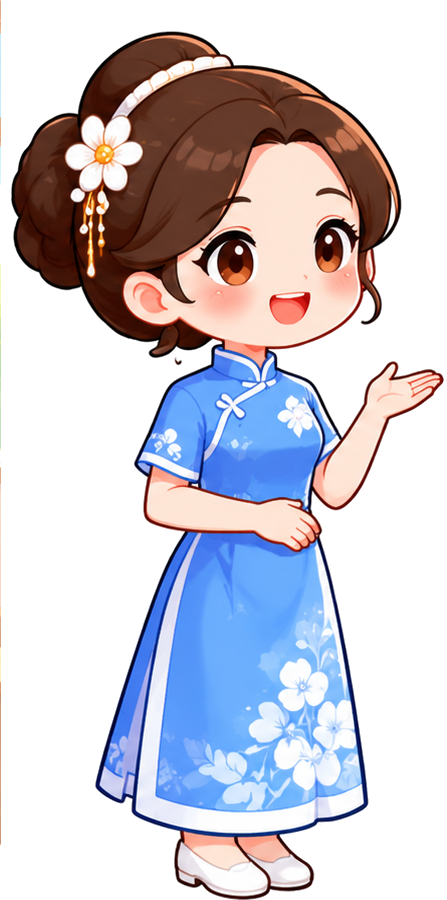
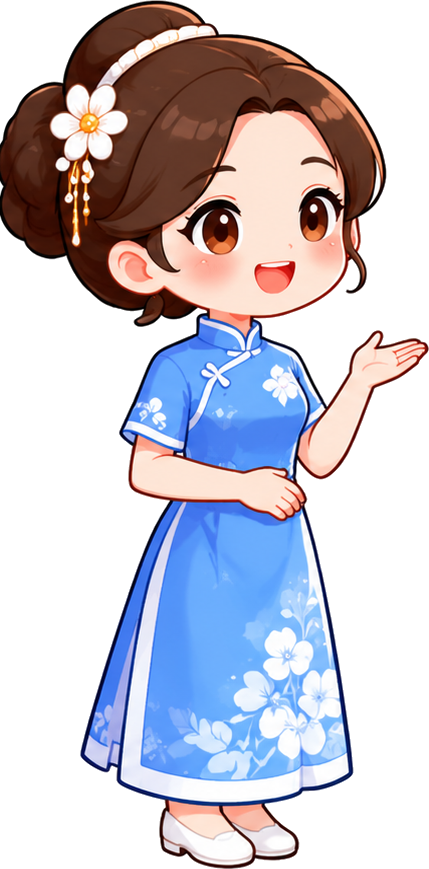
Add files via upload

diff --git a/app.js b/app.js
@@ -376,21 +376,24 @@ function pageClassroom(){
     shell(`<div class="xcard" style="padding:0;overflow:hidden">
       <div class="live-head"><span><b>🔴 LIVE</b> · ${esc(STATE.codeShort||STATE.code)}</span><span class="muted">${esc(room.lessonTitle||'')}</span></div>
       <div class="live-progress">${LIVE_PHASES.map((p,i)=>`<span class="${i<=room.phaseIndex?'on':''}">${esc(p[0])}</span>`).join('')}</div>
-      <div style="margin:12px">${liveStage(q.zh,{sign:room.lessonTitle})}<div class="muted" style="text-align:center;margin-top:6px">Câu ${room.curIndex+1}/${total}</div></div>
+      <div style="margin:12px">${liveStage(q.zh)}<div class="muted" style="text-align:center;margin-top:6px">Câu ${room.curIndex+1}/${total}</div></div>
       <div id="answerbox" style="padding:0 12px 14px"></div>
     </div>`);
     renderAnswer(q);
   }
   function renderAnswer(q){
     const box=$('#answerbox'); if(!box)return;
+    const tools=`<div class="row" style="justify-content:center;gap:8px;flex-wrap:wrap"><button class="btn sm" id="again">🔊 Nghe lại</button><button class="btn sm" id="slow">🐢 Nói chậm</button><button class="btn sm" id="dunno">❓ Không hiểu</button></div><div id="feedback" style="margin-top:10px"></div>`;
+    if(q.type==='fill'){
+      box.innerHTML=`${tools}<p class="muted" style="margin-top:8px;font-size:.84rem">✍ <b>Câu điền từ</b> — gõ từ còn thiếu vào ô dưới:</p><input class="ansbox" id="typed" placeholder="Điền từ tiếng Trung"><button class="btn block" id="sendtyped" style="margin-top:8px">Gửi</button>`;
+      $('#again').onclick=()=>speakZh(q.zh); $('#slow').onclick=()=>speakZh(q.zh,0.6); $('#dunno').onclick=showKeyword;
+      $('#sendtyped').onclick=()=>{ const v=($('#typed').value||'').trim(); if(v)evaluate(q,v); };
+      return;
+    }
     const SR=window.SpeechRecognition||window.webkitSpeechRecognition;
-    box.innerHTML=`<div class="row" style="justify-content:center;gap:8px;flex-wrap:wrap">
-        <button class="btn sm" id="again">🔊 Nghe lại</button><button class="btn sm" id="slow">🐢 Nói chậm</button><button class="btn sm" id="dunno">❓ Không hiểu</button>
-      </div><div id="feedback" style="margin-top:10px"></div>
-      ${SR?`<button class="btn block coral" id="rec" style="margin-top:10px">🎤 Nhấn để trả lời</button>`:`<p class="muted" style="margin-top:10px;font-size:.84rem">Trình duyệt chưa hỗ trợ thu âm (nên dùng Chrome máy tính). Cô/em có thể gõ câu trả lời:</p><input class="ansbox" id="typed" placeholder="Gõ câu trả lời tiếng Trung"><button class="btn block" id="sendtyped" style="margin-top:8px">Gửi</button>`}`;
+    box.innerHTML=`${tools}${SR?`<button class="btn block coral" id="rec" style="margin-top:10px">🎤 Nhấn để trả lời (nói)</button><p class="muted" style="text-align:center;margin-top:6px;font-size:.8rem">Câu này cần trả lời bằng <b>giọng nói</b>.</p>`:`<p class="muted" style="margin-top:10px;font-size:.84rem;text-align:center">🎤 Câu này cần trả lời bằng <b>giọng nói</b>. Thiết bị hiện không thu được âm — hãy mở bằng <b>Chrome trên máy tính</b> rồi cho phép micro.</p>`}`;
     $('#again').onclick=()=>speakZh(q.zh); $('#slow').onclick=()=>speakZh(q.zh,0.6); $('#dunno').onclick=showKeyword;
     const rec=$('#rec'); if(rec)rec.onclick=()=>startRec(q);
-    const st=$('#sendtyped'); if(st)st.onclick=()=>{ const v=($('#typed').value||'').trim(); if(v)evaluate(q,v); };
   }
   function showKeyword(){
     const w=(room.targetWords||[])[0]; if(!w)return toast('Không có từ khoá');
@@ -404,7 +407,7 @@ function pageClassroom(){
     liveSetState('recording');
     partsCol(STATE.code).doc(STATE.sid).update({state:'speaking'}).catch(()=>{});
     rec.onresult=e=>{ const txt=(e.results[0][0].transcript)||''; evaluate(q,txt); };
-    rec.onerror=()=>{ if(btn){btn.textContent='🎤 Nhấn để trả lời';btn.disabled=false;} liveSetState(''); toast('Không thu được âm — thử lại'); };
+    rec.onerror=()=>{ if(btn){btn.textContent='🎤 Nhấn để trả lời (nói)';btn.disabled=false;} liveSetState(''); const fb=$('#feedback'); if(fb)fb.innerHTML='<div class="soft" style="padding:10px;font-size:.85rem">🎤 Không thu được âm. Câu này cần trả lời bằng giọng nói — hãy mở web bằng <b>Chrome trên máy tính</b> và cho phép micro.</div>'; };
     rec.onend=()=>{ if(btn){btn.textContent='🎤 Nhấn để trả lời';btn.disabled=false;} const el=document.getElementById('stage'); if(el&&el.classList.contains('recording'))liveSetState(''); };
     try{ rec.start(); }catch(e){ if(btn){btn.textContent='🎤 Nhấn để trả lời';btn.disabled=false;} }
   }
@@ -1438,7 +1441,7 @@ const LIVE_CSS=`<style id="livecss">
 @media(max-width:820px){.live-grid{grid-template-columns:1fr}}
 .live-stage{position:relative;width:100%;max-width:620px;margin:0 auto;aspect-ratio:1200/941;border-radius:14px;overflow:hidden;background:#f3e9d9 center/cover no-repeat;background-image:url(live-room.jpg)}
 .live-sign{position:absolute;top:16.5%;left:50%;transform:translateX(-50%);width:26%;text-align:center;font-family:'Baloo 2',sans-serif;font-weight:800;color:#6b4a2b;font-size:clamp(.55rem,1.9vw,.95rem);line-height:1.05}
-.live-mascot{position:absolute;right:0;bottom:0;height:74%;filter:drop-shadow(0 4px 8px rgba(0,0,0,.22))}
+.live-mascot{position:absolute;right:0;bottom:0;height:74%;transform:scaleX(-1);filter:drop-shadow(0 4px 8px rgba(0,0,0,.22))}
 .live-bubble{position:absolute;left:4%;top:28%;max-width:52%;background:#fff;border-radius:14px;padding:12px 14px;box-shadow:0 6px 18px rgba(0,0,0,.18);font-family:'Baloo 2',sans-serif;font-weight:700;font-size:clamp(.95rem,3vw,1.5rem);color:#243b53}
 .live-bubble:after{content:'';position:absolute;right:-9px;top:42%;border:9px solid transparent;border-left-color:#fff}
 .live-ring{position:absolute;right:14%;bottom:62%;width:44px;height:44px;border-radius:50%;display:flex;align-items:center;justify-content:center;font-size:1.05rem;opacity:0;transition:opacity .2s}
@@ -1461,7 +1464,9 @@ function speakZh(text,rate){
   if(!('speechSynthesis' in window)||!text) return;
   try{ speechSynthesis.cancel();
     const u=new SpeechSynthesisUtterance(text); u.lang='zh-CN'; u.rate=rate||0.95;
-    const vs=speechSynthesis.getVoices(); const zh=vs.find(v=>/zh|cmn|chinese/i.test((v.lang+' '+v.name).toLowerCase())); if(zh)u.voice=zh;
+    const vs=speechSynthesis.getVoices()||[]; const zhs=vs.filter(v=>/zh|cmn|chinese|普通话|中文/i.test((v.lang+' '+v.name).toLowerCase()));
+    const best=zhs.find(v=>/google|microsoft|微软|xiaoxiao|yaoyao|huihui|mei-?jia|ting-?ting|sinji/i.test(v.name.toLowerCase()))||zhs.find(v=>/zh-cn|zh_cn/i.test(v.lang.toLowerCase()))||zhs[0];
+    if(best)u.voice=best;
     u.onstart=()=>liveSetState('speaking');
     u.onend=()=>{ const el=document.getElementById('stage'); if(el&&el.classList.contains('speaking'))liveSetState(''); };
     speechSynthesis.speak(u);
@@ -1469,12 +1474,12 @@ function speakZh(text,rate){
 }
 function liveStage(qzh,opts){ opts=opts||{};
   return `<div class="live-stage" id="stage">
-    <div class="live-sign">${esc(opts.sign||'XiaoYu Chinese')}</div>
+    <div class="live-sign">${esc(opts.sign||'XiaoYu Class')}</div>
     <div class="live-badge" id="livebadge"></div>
     <div class="live-bubble">${esc(qzh||'…')}</div>
     <div class="live-ring spk">🔊</div>
     <div class="live-ring rec">🎤</div>
-    <img class="live-mascot" src="live-teacher.png" alt="">
+    <img class="live-mascot" src="live-teacher.png?v=2" alt="">
   </div>`;
 }
 function liveSetState(s){ const el=document.getElementById('stage'); if(!el)return; el.classList.remove('speaking','recording','praise'); if(s)el.classList.add(s); }
@@ -1494,7 +1499,7 @@ function liveSetup(){
       <div class="field ico" style="margin-top:8px"><label>Bài học</label><span class="ic">📘</span><select id="les">${lessons.map(l=>`<option value="${l.id}" ${l.id===lid?'selected':''}>${esc(l.title)}</option>`).join('')}</select></div>
       <p style="margin:10px 0 4px"><b>Từ vựng mục tiêu</b></p>
       <div style="display:flex;flex-wrap:wrap;gap:6px">${tgt.map(w=>`<span class="pill">${esc(w.hanzi)} <small class="muted">${esc(w.pinyin)}</small></span>`).join('')||'<span class="muted">—</span>'}</div>
-      <p style="margin:12px 0 4px"><b>Câu hỏi của buổi</b> <small class="muted">(mỗi dòng 1 câu, cô sửa tuỳ ý)</small></p>
+      <p style="margin:12px 0 4px"><b>Câu hỏi của buổi</b> <small class="muted">(mỗi dòng 1 câu · câu có <b>___</b> là dạng điền từ (học sinh gõ), còn lại là dạng nói (bắt buộc trả lời bằng giọng))</small></p>
       <textarea id="qs" rows="7" style="width:100%;padding:10px;border:1px solid #e2e8f1;border-radius:9px;font:inherit">${esc(autoQ(les).join('\n'))}</textarea>
       <button class="btn block" id="open" style="margin-top:14px">▶ Mở phòng Live</button>
     </div></div>`);
@@ -1503,7 +1508,7 @@ function liveSetup(){
     $('#open').onclick=async()=>{
       const les2=lessons.find(l=>l.id===lid)||{words:[]};
       const tgt2=(les2.words||[]).slice(0,6).map(w=>({hanzi:w.hanzi,pinyin:w.pinyin,vi:w.vi}));
-      const questions=($('#qs').value||'').split('\n').map(s=>s.trim()).filter(Boolean).map(zh=>({zh}));
+      const questions=($('#qs').value||'').split('\n').map(s=>s.trim()).filter(Boolean).map(zh=>({zh,type:(zh.includes('___')||zh.includes('＿'))?'fill':'speak'}));
       if(!questions.length) return toast('Cần ít nhất 1 câu hỏi');
       const btn=$('#open'); btn.disabled=true; btn.textContent='Đang mở…';
       try{
@@ -1546,7 +1551,7 @@ function liveTeacherConsole(){
         </aside>
         <main class="soft" style="padding:14px">
           <div class="spread"><b>Câu ${room.curIndex+1}/${total}</b><span class="muted">${parts.length} tham gia</span></div>
-          <div style="margin-top:8px">${liveStage(cur.zh,{sign:room.lessonTitle})}</div>
+          <div style="margin-top:8px">${liveStage(cur.zh)}</div>
           <div class="row" style="justify-content:center;gap:8px;margin-top:10px"><button class="btn sm" id="prev" ${room.curIndex<=0?'disabled':''}>← Câu trước</button><button class="btn sm" id="say">🔊 Đọc câu</button><button class="btn sm" id="next" ${room.curIndex>=total-1?'disabled':''}>Câu tiếp →</button></div>
           <b style="display:block;margin-top:14px">Danh sách học sinh (${parts.length})</b>
           <div class="tbl-wrap" style="margin-top:6px"><table><tbody>${parts.length?parts.map(p=>`<tr><td><b>${esc(p.name||'')}</b></td><td>${stChip(p.state)}</td><td class="muted">${p.answered||0} lượt</td></tr>`).join(''):'<tr><td class="muted">Chưa có học sinh vào phòng…</td></tr>'}</tbody></table></div>

diff --git a/index.html b/index.html
@@ -86,7 +86,7 @@
   <script src="firebase-auth-compat.js?v=20261125"></script>
   <script src="firebase-firestore-compat.js?v=20261125"></script>
   <script src="vocab.js?v=20261118"></script>
-  <script src="app.js?v=20261126e"></script>
+  <script src="app.js?v=20261126h"></script>
   <script src="sbt.js?v=20261118"></script>
 </body>
 </html>
